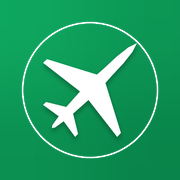
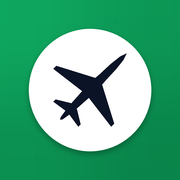
Add files via upload

diff --git a/js/icons.js b/js/icons.js
@@ -150,8 +150,8 @@ export function renderIcon(name, options = {}) {
 
 /**
  * Render the Official TravelOne Master Logo SVG
- * Features edge-to-edge solid emerald green background (#0ea35d), subtle ambient glow ring,
- * and a crisp pure white centered jet silhouette.
+ * Features edge-to-edge solid emerald green background (#0ea35d), centered crisp white circle container (#ffffff),
+ * and a sleek centered black airplane silhouette (#0b1326).
  * Fully compatible with iOS & Android Dark Mode (opaque solid fill, no transparent margins).
  * 
  * @param {number} [size=42] - Pixel dimensions (width and height)
@@ -171,16 +171,16 @@ export function renderAppLogoSVG(size = 42, className = '') {
           <stop offset="0%" stop-color="#0ea35d" />
           <stop offset="100%" stop-color="#09874c" />
         </linearGradient>
-        <filter id="travelone-brand-shadow" x="-20%" y="-20%" width="140%" height="140%">
-          <feDropShadow dx="0" dy="6" stdDeviation="5" flood-color="#002814" flood-opacity="0.4" />
+        <filter id="travelone-brand-circle-shadow" x="-20%" y="-20%" width="140%" height="140%">
+          <feDropShadow dx="0" dy="6" stdDeviation="6" flood-color="#002814" flood-opacity="0.35" />
         </filter>
       </defs>
       <!-- Solid Emerald Green Edge-to-Edge Background -->
       <rect width="512" height="512" fill="url(#travelone-brand-grad)" />
-      <!-- Subtle Ambient Glow Ring -->
-      <circle cx="256" cy="256" r="195" fill="none" stroke="rgba(255, 255, 255, 0.28)" stroke-width="6" />
-      <!-- Crisp Pure White Centered Jet Silhouette -->
-      <polygon points="389.12,122.88 377.17,146.76 350.91,180.18 316.28,217.2 299.58,236.3 343.75,378.37 333.0,389.12 251.82,284.06 207.65,323.46 221.97,380.76 213.62,389.12 181.38,344.95 156.3,362.85 147.96,364.04 149.15,355.7 167.05,330.62 122.88,298.38 131.24,290.03 188.54,304.35 227.94,260.18 122.88,179.0 133.63,168.25 275.7,212.42 294.8,195.72 331.82,161.09 365.24,134.83" fill="#ffffff" filter="url(#travelone-brand-shadow)" />
+      <!-- Crisp Central White Circle -->
+      <circle cx="256" cy="256" r="175" fill="#ffffff" filter="url(#travelone-brand-circle-shadow)" />
+      <!-- Sleek Centered Airplane Silhouette in Solid Black -->
+      <polygon points="361.0,151.0 351.58,169.83 330.86,196.2 303.55,225.39 290.37,240.46 325.21,352.52 316.74,361.0 252.7,278.13 217.86,309.21 229.16,354.41 222.57,361.0 197.15,326.16 177.36,340.28 170.78,341.22 171.72,334.64 185.84,314.85 151.0,289.43 157.59,282.84 202.79,294.14 233.87,259.3 151.0,195.26 159.48,186.79 271.54,221.63 286.61,208.45 315.8,181.14 342.17,160.42" fill="#0b1326" />
     </svg>
   `.trim();
 }

diff --git a/index.html b/index.html
@@ -17,26 +17,26 @@
   <meta name="apple-mobile-web-app-status-bar-style" content="default">
   <meta name="apple-mobile-web-app-title" content="TravelOne">
   
-  <!-- Apple Touch Icons (Solid 100% Opaque Emerald Green Background, iOS Dark Mode Immune) -->
-  <link rel="apple-touch-icon" href="./apple-touch-icon.png?v=26">
-  <link rel="apple-touch-icon" sizes="180x180" href="./apple-touch-icon-180x180.png?v=26">
-  <link rel="apple-touch-icon" sizes="192x192" href="./icon-192.png?v=26">
-  <link rel="apple-touch-icon" sizes="512x512" href="./icon-512.png?v=26">
-  <link rel="apple-touch-icon-precomposed" href="./apple-touch-icon.png?v=26">
-  <link rel="apple-touch-icon-precomposed" sizes="180x180" href="./apple-touch-icon-180x180.png?v=26">
+  <!-- Apple Touch Icons (Solid Emerald Green Background, White Circle & Black Jet) -->
+  <link rel="apple-touch-icon" href="./apple-touch-icon.png?v=27">
+  <link rel="apple-touch-icon" sizes="180x180" href="./apple-touch-icon-180x180.png?v=27">
+  <link rel="apple-touch-icon" sizes="192x192" href="./icon-192.png?v=27">
+  <link rel="apple-touch-icon" sizes="512x512" href="./icon-512.png?v=27">
+  <link rel="apple-touch-icon-precomposed" href="./apple-touch-icon.png?v=27">
+  <link rel="apple-touch-icon-precomposed" sizes="180x180" href="./apple-touch-icon-180x180.png?v=27">
 
   <!-- Favicon & Web Icons -->
-  <link rel="icon" type="image/svg+xml" href="./app-logo.svg?v=26">
-  <link rel="icon" type="image/png" sizes="64x64" href="./favicon.png?v=26">
-  <link rel="icon" type="image/png" sizes="192x192" href="./icon-192.png?v=26">
-  <link rel="icon" type="image/png" sizes="512x512" href="./icon-512.png?v=26">
+  <link rel="icon" type="image/svg+xml" href="./app-logo.svg?v=27">
+  <link rel="icon" type="image/png" sizes="64x64" href="./favicon.png?v=27">
+  <link rel="icon" type="image/png" sizes="192x192" href="./icon-192.png?v=27">
+  <link rel="icon" type="image/png" sizes="512x512" href="./icon-512.png?v=27">
 
   <!-- PWA Manifest -->
-  <link rel="manifest" href="./manifest.json?v=26">
+  <link rel="manifest" href="./manifest.json?v=27">
 
   <!-- Stylesheets -->
-  <link rel="stylesheet" href="./css/main.css?v=26">
-  <link rel="stylesheet" href="./css/components.css?v=26">
+  <link rel="stylesheet" href="./css/main.css?v=27">
+  <link rel="stylesheet" href="./css/components.css?v=27">
 </head>
 <body>
 
@@ -44,6 +44,6 @@
   <div id="app-layout"></div>
 
   <!-- Main JavaScript Module -->
-  <script type="module" src="./js/app.js?v=26"></script>
+  <script type="module" src="./js/app.js?v=27"></script>
 </body>
 </html>

diff --git a/sw.js b/sw.js
@@ -5,7 +5,7 @@
  * @module sw
  */
 
-const CACHE_NAME = 'travelone-v26';
+const CACHE_NAME = 'travelone-v27';
 
 /**
  * Essential static assets and application modules cached for full offline operation.

diff --git a/generate_green_icons.py b/generate_green_icons.py
@@ -1,6 +1,9 @@
 """
 TravelOne High-Definition Icon Generator
-Generates 100% opaque, emerald green icons with crisp white centered airplane silhouettes.
+Generates icons with:
+- Solid vibrant emerald green background (#0ea35d -> #09874c)
+- Centered crisp white circle container (#ffffff)
+- Centered sleek black airplane silhouette (#0b1326)
 Guaranteed immune to iOS Safari Dark Mode and Android maskable icon clipping.
 """
 from PIL import Image, ImageDraw, ImageFilter
@@ -27,45 +30,45 @@ def make_gradient(width, height):
     base.putpixel((1, 1), (9, 135, 76))
     return base.resize((width, height), Image.Resampling.BICUBIC).convert('RGBA')
 
-def generate_green_icon(size, filename, is_rgb=False):
+def generate_icon(size, filename, is_rgb=False):
     canvas_size = 1024
     
     # 1. Base Emerald Green Gradient (100% Solid Full Bleed)
     im = make_gradient(canvas_size, canvas_size)
-    draw = ImageDraw.Draw(im)
     
-    # 2. Subtle soft concentric glow ring
-    ring_radius = int(canvas_size * 0.38)
-    ring_cx = canvas_size // 2
-    ring_cy = canvas_size // 2
-    ring_width = max(2, int(canvas_size * 0.012))
+    # 2. Centered White Circle with subtle ambient shadow
+    circle_radius = int(canvas_size * 0.34) # Radius 348 in 1024 -> ~174 in 512
+    cx = canvas_size // 2
+    cy = canvas_size // 2
+    
+    # Shadow for white circle
+    shadow_offset_y = int(canvas_size * 0.015)
+    shadow_img = Image.new('RGBA', (canvas_size, canvas_size), (0, 0, 0, 0))
+    s_draw = ImageDraw.Draw(shadow_img)
+    s_draw.ellipse(
+        [cx - circle_radius, cy - circle_radius + shadow_offset_y, cx + circle_radius, cy + circle_radius + shadow_offset_y],
+        fill=(0, 40, 20, 90)
+    )
+    shadow_img = shadow_img.filter(ImageFilter.GaussianBlur(radius=canvas_size * 0.015))
+    im = Image.alpha_composite(im, shadow_img)
+    
+    # Draw Crisp White Circle
+    draw = ImageDraw.Draw(im)
     draw.ellipse(
-        [ring_cx - ring_radius, ring_cy - ring_radius, ring_cx + ring_radius, ring_cy + ring_radius],
-        outline=(255, 255, 255, 70),
-        width=ring_width
+        [cx - circle_radius, cy - circle_radius, cx + circle_radius, cy + circle_radius],
+        fill=(255, 255, 255, 255)
     )
     
-    # 3. Scaled & Centered Airplane Silhouette (with 24% safe margin)
-    plane_scale = (canvas_size * 0.52) / 184.08
+    # 3. Scaled & Centered Black Airplane Silhouette inside the white circle
+    plane_scale = (circle_radius * 2 * 0.60) / 184.08
     scaled_points = []
     for px, py in raw_points:
         nx = (px - cx_orig) * plane_scale + (canvas_size / 2)
         ny = (py - cy_orig) * plane_scale + (canvas_size / 2)
         scaled_points.append((nx, ny))
     
-    # Soft drop shadow for airplane
-    shadow_offset_y = int(canvas_size * 0.018)
-    shadow_points = [(x, y + shadow_offset_y) for x, y in scaled_points]
-    
-    shadow_img = Image.new('RGBA', (canvas_size, canvas_size), (0, 0, 0, 0))
-    s_draw = ImageDraw.Draw(shadow_img)
-    s_draw.polygon(shadow_points, fill=(0, 40, 20, 85))
-    shadow_img = shadow_img.filter(ImageFilter.GaussianBlur(radius=canvas_size * 0.012))
-    im = Image.alpha_composite(im, shadow_img)
-    
-    # Crisp Pure White Airplane Silhouette
-    draw = ImageDraw.Draw(im)
-    draw.polygon(scaled_points, fill=(255, 255, 255, 255))
+    # Draw Sleek Jet in Solid Black (#0b1326)
+    draw.polygon(scaled_points, fill=(11, 19, 38, 255))
     
     # Resize to target dimension with Lanczos anti-aliasing
     final_img = im.resize((size, size), Image.Resampling.LANCZOS)
@@ -86,4 +89,4 @@ if __name__ == '__main__':
         ('app-logo.png', 512, False),
         ('favicon.png', 64, False)
     ]:
-        generate_green_icon(sz, name, rgb)
+        generate_icon(sz, name, rgb)
